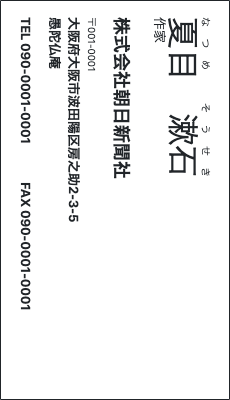
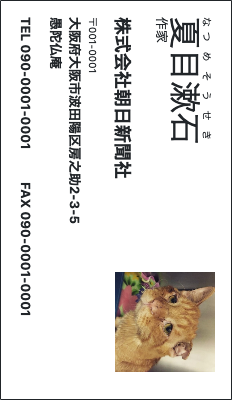
画像追加機能

diff --git a/config.html b/config.html
@@ -53,6 +53,13 @@
       font-size: small;
       font-weight: bold;
     }
+
+    #portrait {
+      position: absolute;
+      height: 100px;
+      width: auto;
+      left: 17rem;
+    }
   </style>
 </head>
 
@@ -69,12 +76,19 @@
       <input class="col col-12 col-sm-6 address2" placeholder="愚陀仏庵" />
       <input class="col col-6 tel" placeholder="TEL 090-0001-0001" />
       <input class="col col-6 fax" placeholder="FAX 090-0001-0001" />
+      <label class="col">
+        <span class="btn btn-primary">
+          写真
+          <input id="image_input" type="file" style="display:none">
+        </span>
+      </label>
       <button id="submit" class="btn btn-success">完了</button>
     </div>
+    <img id='image_preview' class="col image-preview" />
   </div>
 
-
   <div id="display">
+    <div class=""><img id='portrait'></div>
     <div class="row name-container">
       <div class="col col-12 furigana">なつめ　そうせき</div>
       <div class="col"><span class="name">夏目　漱石</span></div>
@@ -94,6 +108,8 @@
 
   <script>
     (() => {
+      let portrait_data = null;
+
       const inputItems = document.querySelectorAll('#inputs .col');
 
       const getInputFieldName = input => {
@@ -121,12 +137,27 @@
         }
       }
 
+      portrait_data = localStorage.getItem('input-portrait');
+      if (portrait_data) portrait.src = portrait_data;
+
+      image_input.onchange = () => {
+        const files = !!image_input.files ? image_input.files : [];
+        if (!files.length || !window.FileReader) return;
+        if (!/^image/.test(files[0].type)) return;
+
+        let reader = new FileReader();
+        reader.readAsDataURL(files[0]);
+        reader.onload = () => portrait.src = portrait_data = reader.result;
+      }
+
       submit.onclick = async () => {
         for (let item of inputItems) {
           if (item.value) {
             localStorage.setItem(`input-${getInputFieldName(item)}`, item.value);
           }
         }
+
+        if (portrait_data) localStorage.setItem('input-portrait', portrait_data);
 
         display.style.transform = 'rotate(90deg)';
         const canvas = await html2canvas(display);
